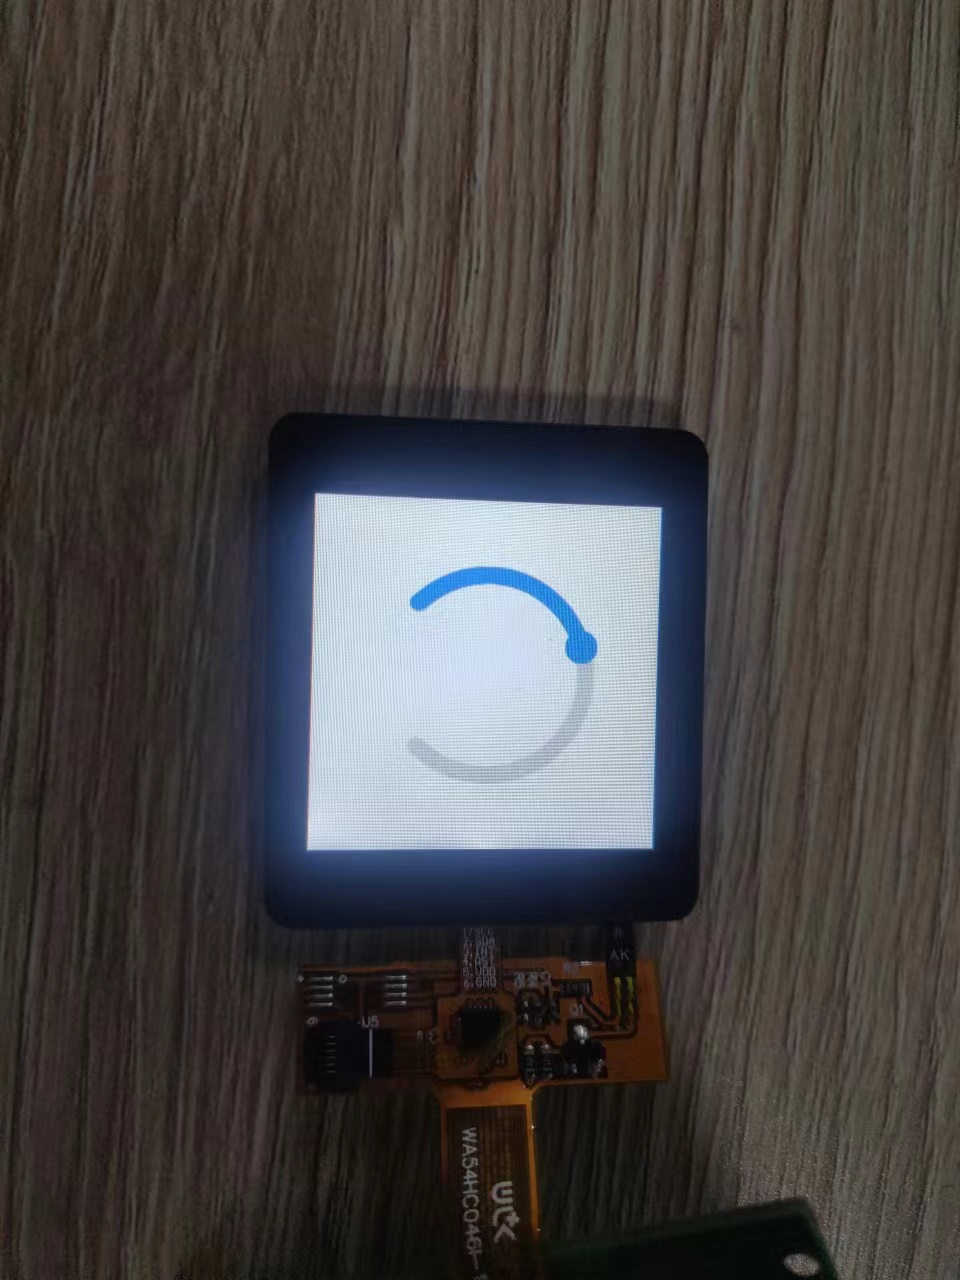
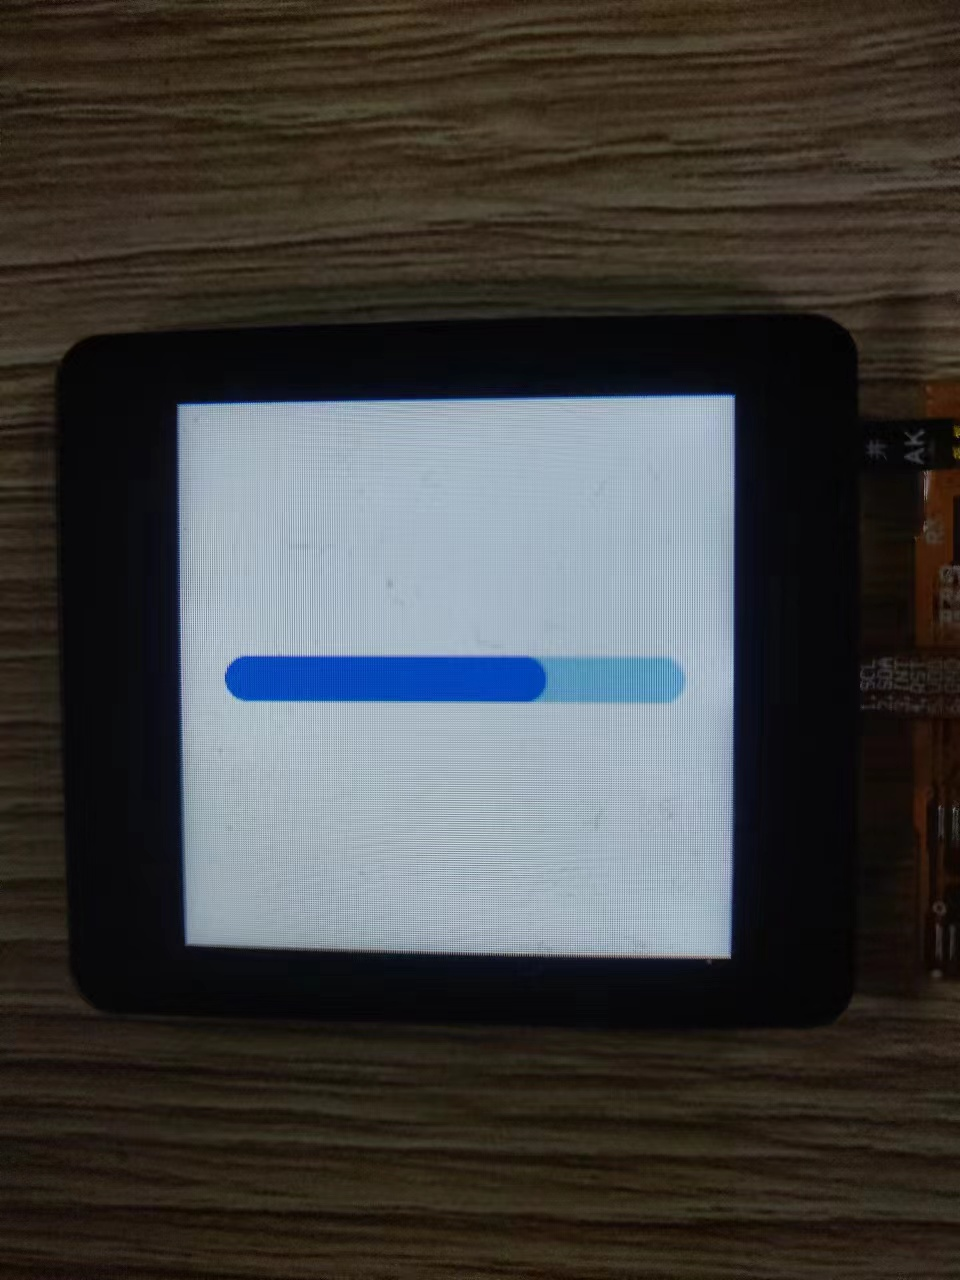
update lvgl Bar example

diff --git a/applications/iot-solution/lvgl_example/lvgl_Bar/lvgl_Bar/main.c b/applications/iot-solution/lvgl_example/lvgl_Bar/lvgl_Bar/main.c
@@ -12,7 +12,7 @@
 
 #include <hosal_timer.h>
 
-#define LVGL_BAR_EXAMPLE 1
+#define LVGL_BAR_EXAMPLE 2
 
 static void timer_cb(void* arg)
 {

diff --git a/applications/iot-solution/lvgl_example/lvgl_Bar/README.md b/applications/iot-solution/lvgl_example/lvgl_Bar/README.md
@@ -1,4 +1,4 @@
-# LVGL Arc Example
+# LVGL Bar Example
 The screen used in this routine is a 240 * 240 TFT display screen driven by ST7789。
 
 ## LVGL config
